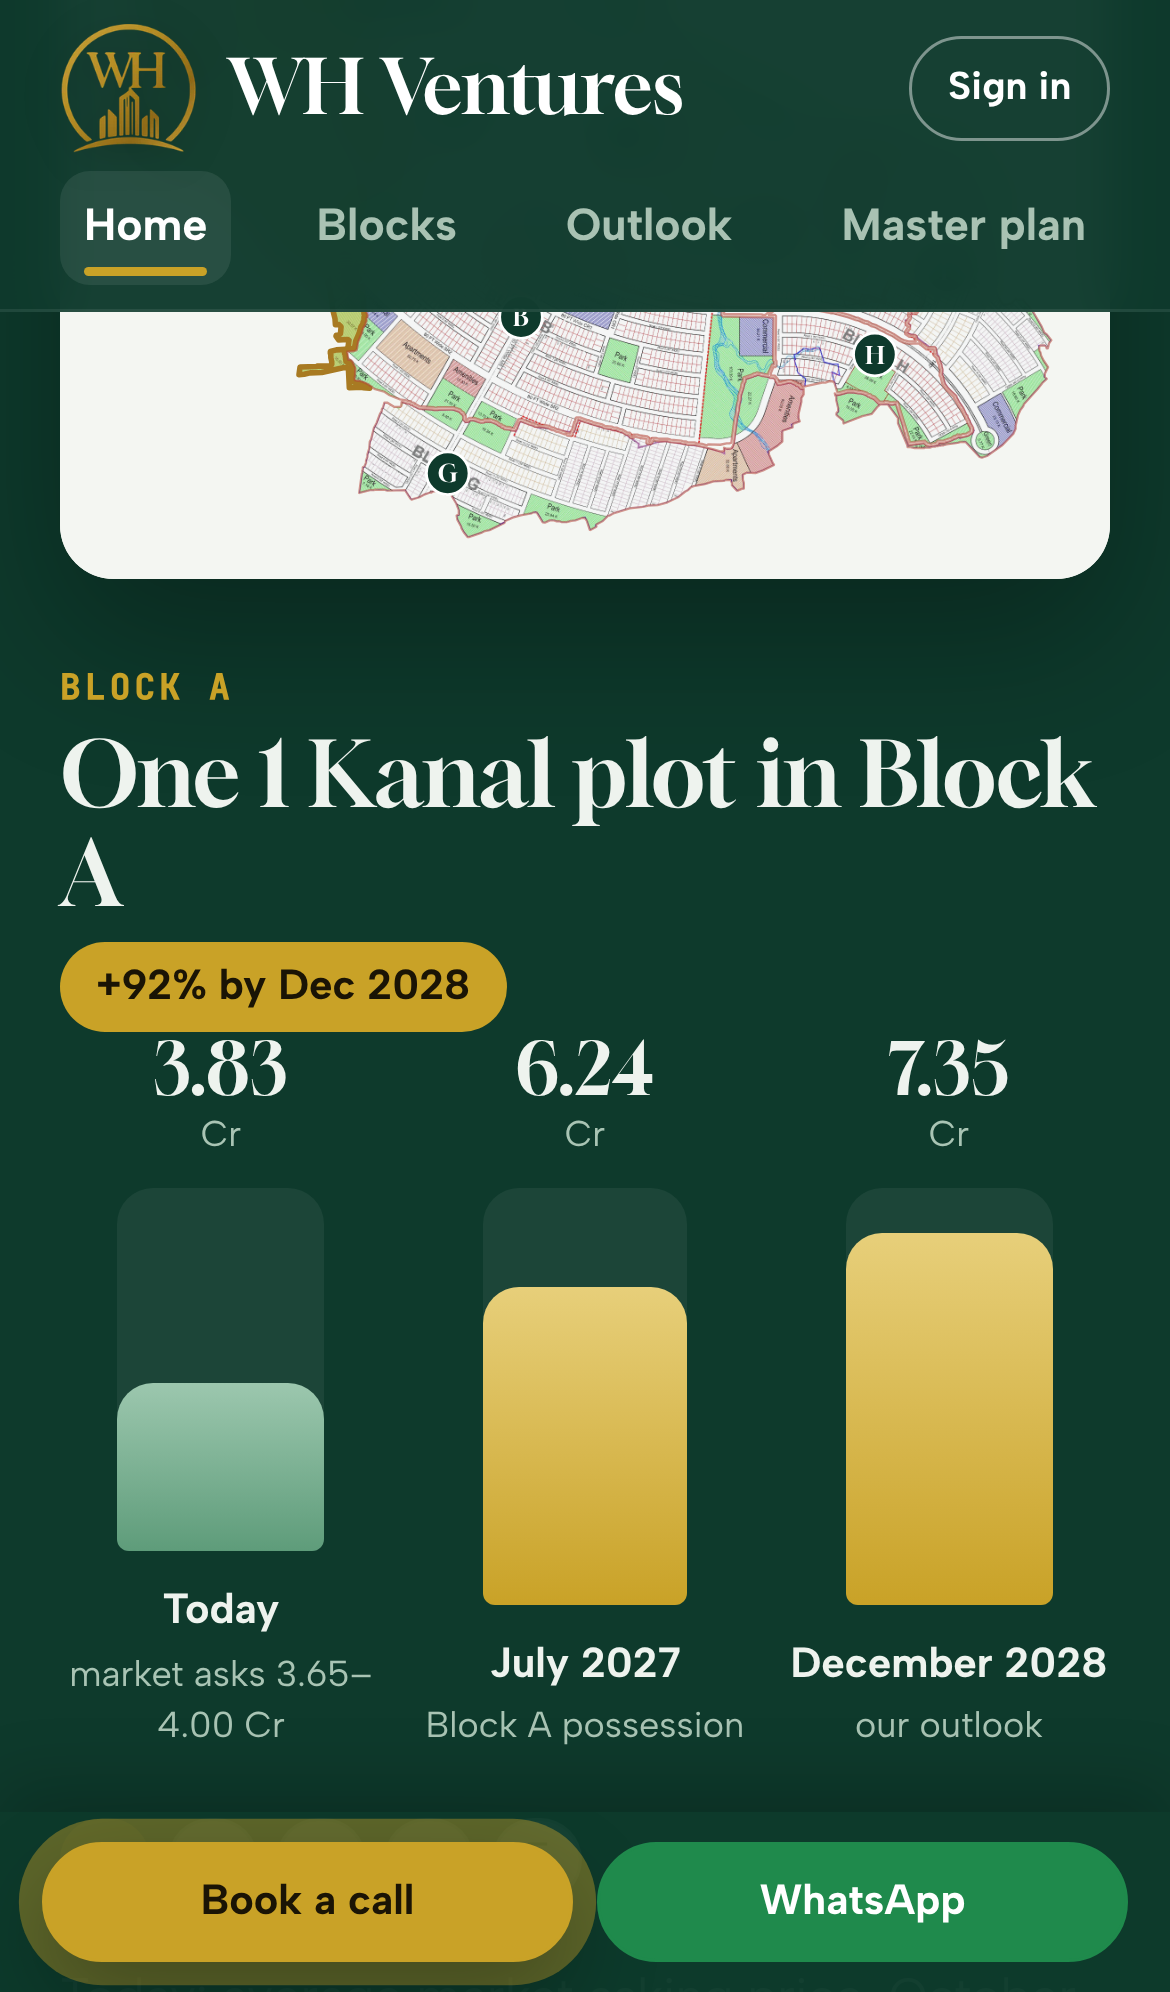
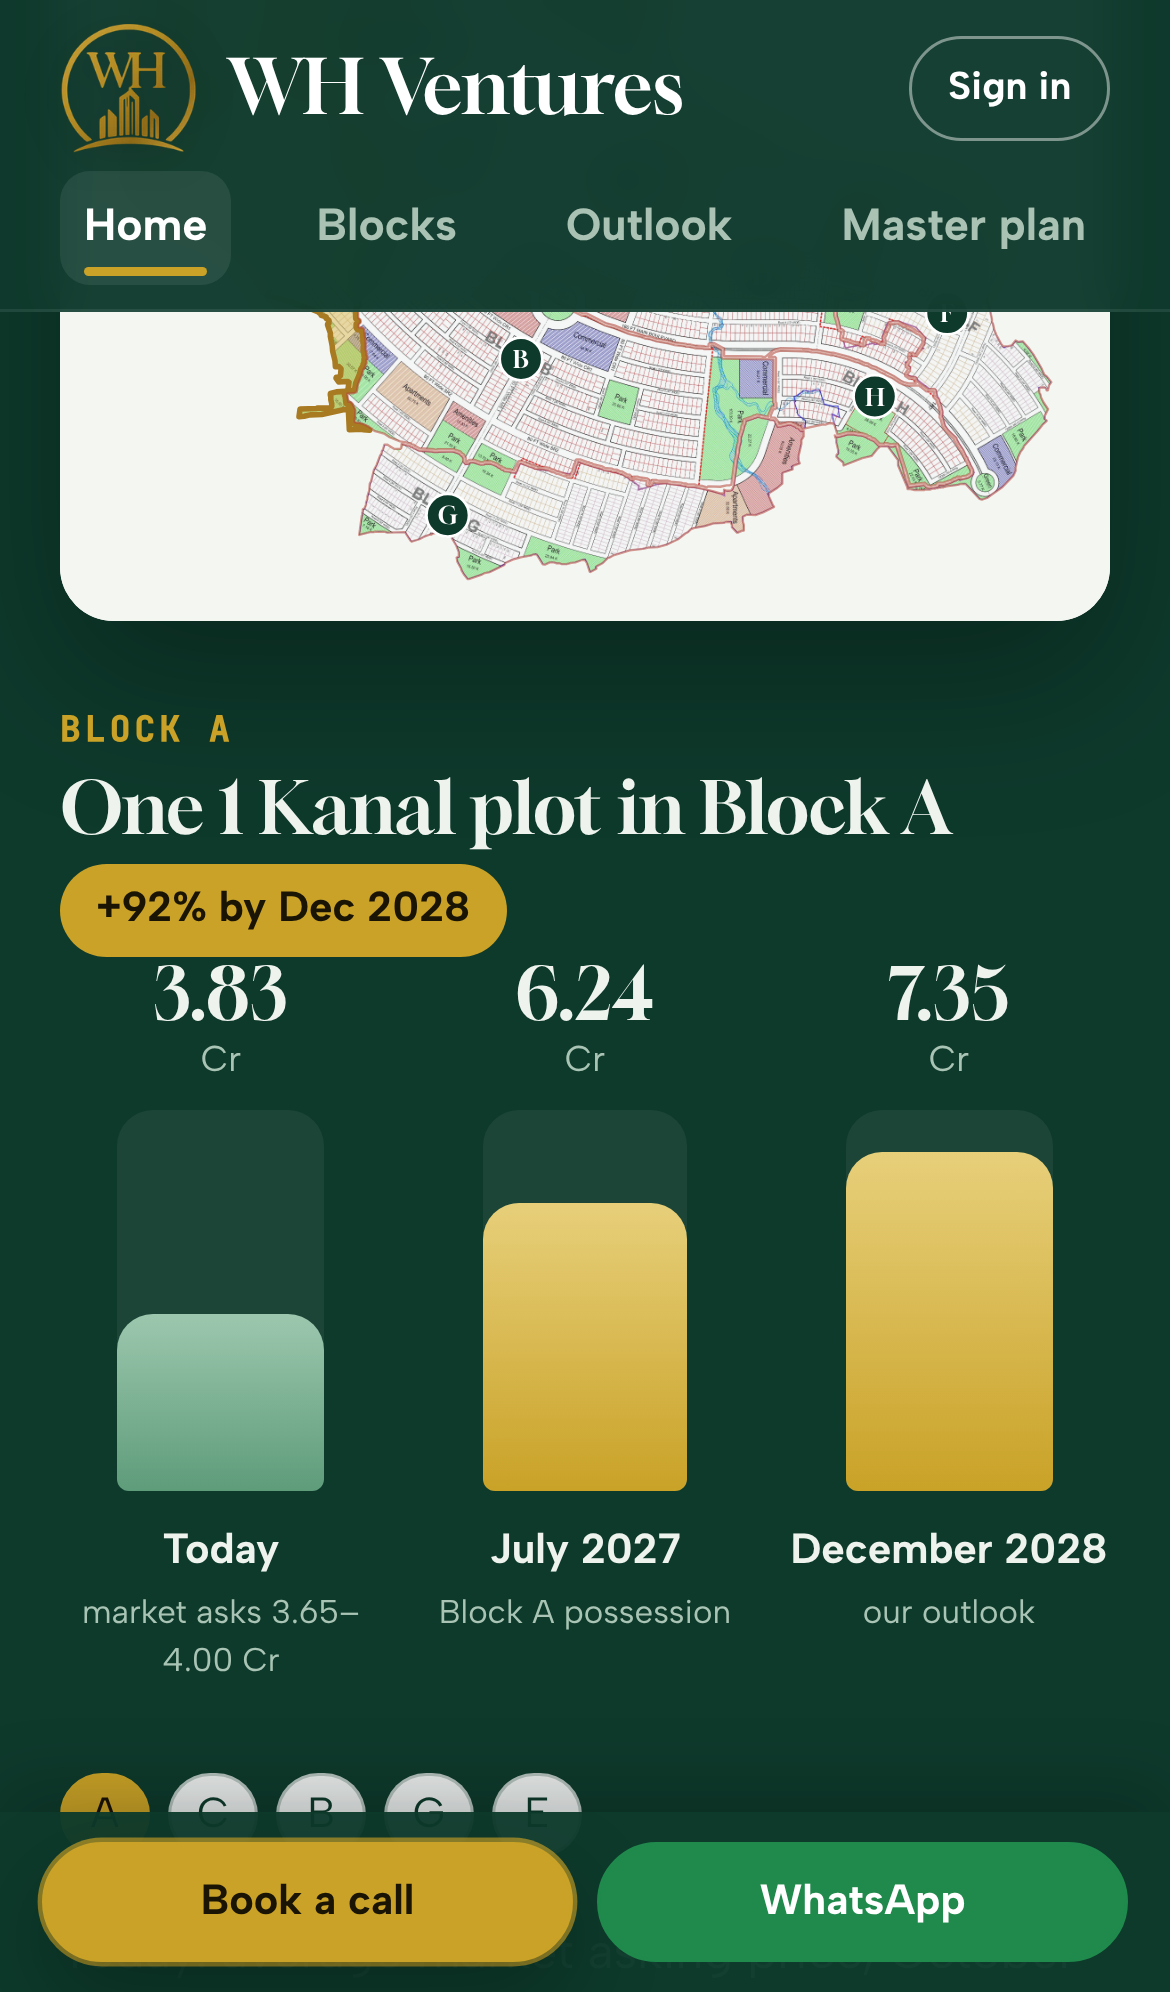
Website: the tour's info card goes under the map, so it does not cover the blocks
Claude-Session: https://claude.ai/code/session_012xCc4tBwxEs8vMD8FDEPty

diff --git a/dha-orchard/app/web/src/styles.css b/dha-orchard/app/web/src/styles.css
@@ -871,7 +871,7 @@ body[data-tab="site"] #app{height:auto}
 .herotour .bmap.whole .bmblock polygon{fill:rgba(201,162,39,.12);stroke-opacity:.9}
 .herotour .bmblock.focus polygon,.growth .bmblock.focus polygon{fill:rgba(201,162,39,.42);stroke:#A87A22;stroke-opacity:1;stroke-width:12}
 .herotour .bmblock.focus .bmlabel circle,.growth .bmblock.focus .bmlabel circle{fill:#C9A227}
-.herocard{position:absolute;left:14px;bottom:50px;z-index:3;max-width:min(350px,calc(100% - 28px));background:rgba(14,58,44,.95);color:#fff;border-radius:16px;padding:14px 16px;display:grid;gap:6px;box-shadow:0 14px 34px rgba(0,0,0,.35)}
+.herocard{position:relative;z-index:3;margin:0;background:#0B2F23;color:#fff;border-radius:0;padding:14px 18px;display:grid;gap:6px;box-shadow:0 14px 34px rgba(0,0,0,.35)}
 .herocard.pop{animation:cardIn .55s cubic-bezier(.2,.8,.2,1) both}
 @keyframes cardIn{from{opacity:0;transform:translateY(14px) scale(.97)}to{opacity:1;transform:none}}
 .hc-eyebrow{font:600 11px var(--mono);letter-spacing:.12em;text-transform:uppercase;color:#E7CF7A}
@@ -883,15 +883,17 @@ body[data-tab="site"] #app{height:auto}
 .hc-prices b.gold{color:#E7CF7A}
 .hc-fine{font-size:10.5px;color:#A9C4B4}
 .hc-row{margin-top:4px}
+.herocard{grid-template-columns:1fr auto;align-items:end;column-gap:18px}
+.herocard>*{grid-column:1}
+.herocard .hc-row{grid-column:2;grid-row:1 / span 5;align-self:center}
+@media (max-width:900px){.herocard{grid-template-columns:1fr}.herocard .hc-row{grid-column:1;grid-row:auto}}
 .hc-row .sitebtn{padding:8px 14px;font-size:13.5px}
-.herodots{position:absolute;left:0;right:0;bottom:10px;z-index:3;display:flex;justify-content:center;gap:5px;flex-wrap:wrap;padding:0 10px}
-.hdot{min-width:30px;height:28px;border-radius:999px;border:1px solid rgba(14,58,44,.25);background:rgba(255,255,255,.88);color:#0E3A2C;font:700 12px var(--sans,inherit);cursor:pointer;padding:0 8px}
+.herodots{position:relative;padding-block:10px !important;background:#0B2F23;z-index:3;display:flex;justify-content:center;gap:5px;flex-wrap:wrap;padding:0 10px}
+.hdot{min-width:30px;height:28px;border-radius:999px;border:1px solid rgba(14,58,44,.25);background:rgba(255,255,255,.9);color:#0E3A2C;font:700 12px var(--sans,inherit);cursor:pointer;padding:0 8px}
 .hdot.on{background:#C9A227;border-color:#C9A227;color:#1A1405}
 @media (max-width:640px){
   .herotour{order:-1;margin-top:-8px}
   .herogrid{gap:18px}
-  .herocard{position:relative;left:auto;bottom:auto;max-width:none;margin:-6px 10px 10px;border-radius:14px}
-  .herodots{position:relative;bottom:auto;margin:0 0 10px}
   .hc-prices b{font-size:17px}
 }
 

diff --git a/dha-orchard/app/web/src/showcase.js b/dha-orchard/app/web/src/showcase.js
@@ -21,11 +21,10 @@ const f2 = (v) => v.toFixed(2), f1 = (v) => v.toFixed(1);
 
 // ---------------------------------------------------------------- the hero tour
 function fullBox() { const W = G.world[2], H = G.world[3]; return [-W * 0.04, -H * 0.04, W * 1.08, H * 1.08]; }
-// on a wide map the card is at the bottom left, so the block goes to the upper right; on a phone the card is below the map
 function blockBox(b) {
   const bb = G.geo.blocks[b].bbox, pad = 50, W = G.world[2], H = G.world[3], ar = W / H;
   const w = bb[2] - bb[0] + pad * 2, h = bb[3] - bb[1] + pad * 2, cx = (bb[0] + bb[2]) / 2, cy = (bb[1] + bb[3]) / 2;
-  const side = innerWidth > 640;
+  const side = false; // the card is below the map on every screen, so the block goes in the middle
   const fx = side ? 0.5 : 1, fy = side ? 0.8 : 0.9; // the part of the map that the block may use
   const vw = Math.max(w / fx, (h / fy) * ar), vh = vw / ar;
   return side ? [cx - 0.71 * vw, cy - 0.44 * vh, vw, vh] : [cx - vw / 2, cy - 0.48 * vh, vw, vh];
